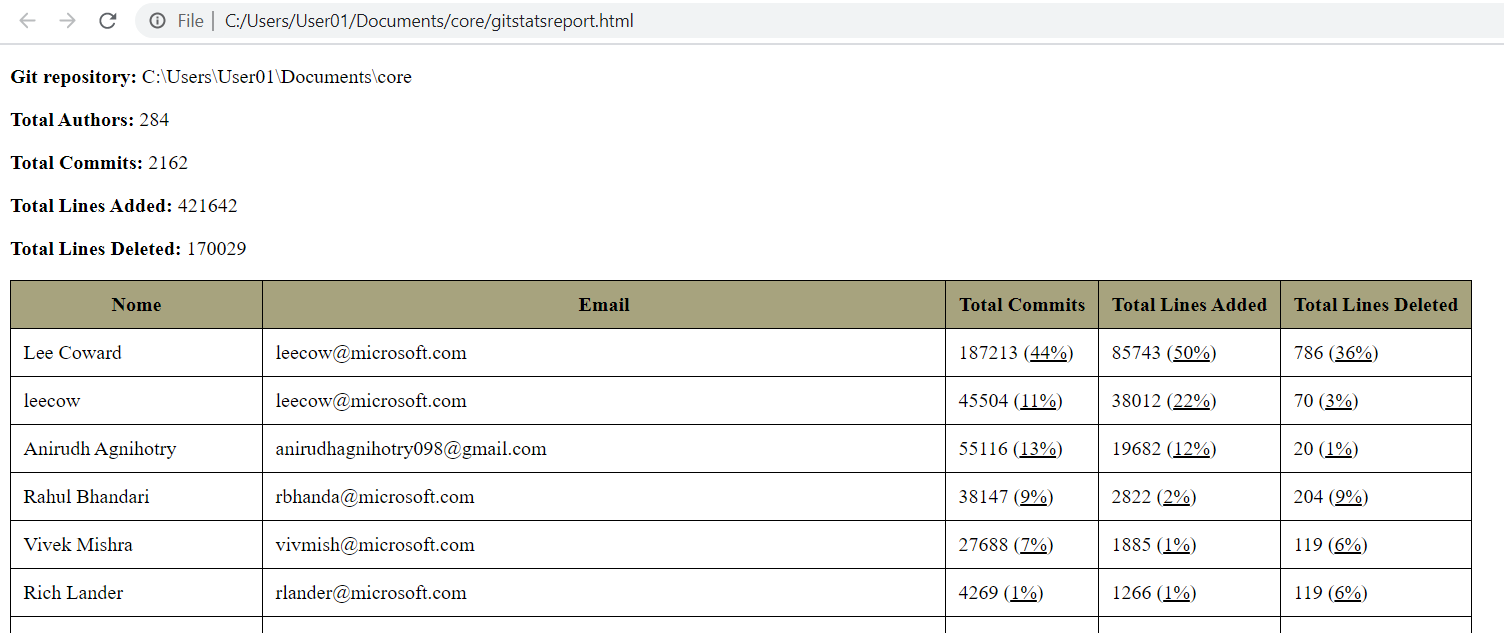
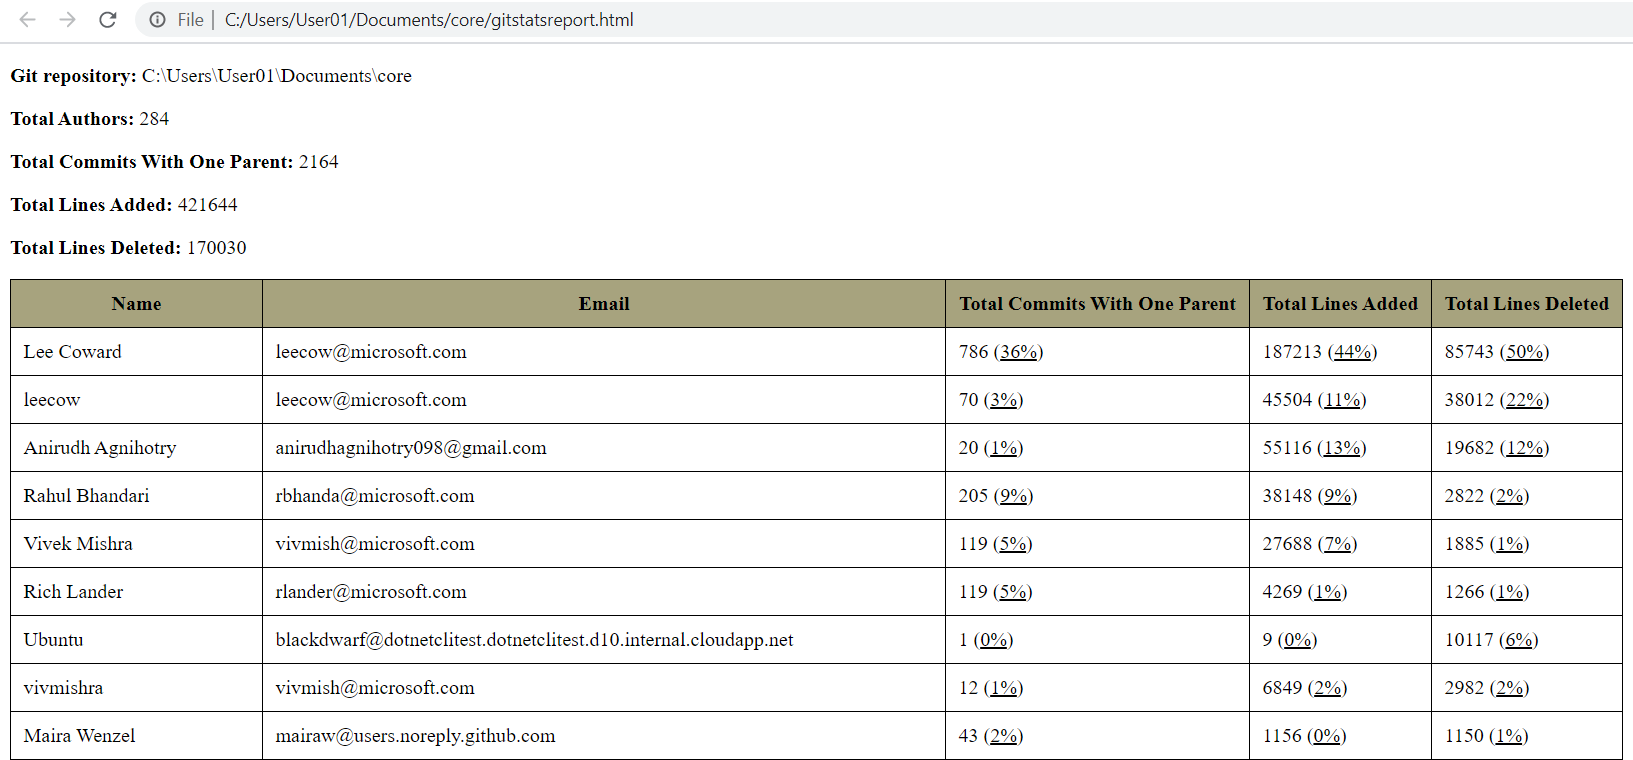
New documentation.

Changed region(s): [[0.0, 0.0, 1.0, 1.0], [0.9688, 0.9305, 1.0, 0.9605]]

diff --git a/README.md b/README.md
@@ -34,11 +34,11 @@ The results were truncated and they were originally stored in separated files.
         "Email": "immol@microsoft.com",
         "LinesAdded": 1247,
         "LinesDeleted": 137,
-        "TotalCommits": 29
+        "TotalCommitsWithOneParent": 29
       },
       "PercentageLinesAdded": 0,
       "PercentageLinesDeleted": 0,
-      "PercentageTotalCommits": 1,
+      "PercentageTotalCommitsWithOneParent": 1,
       "PonderatedPercentage": 0
     },
     {
@@ -47,11 +47,11 @@ The results were truncated and they were originally stored in separated files.
         "Email": "davidsb@microsoft.com",
         "LinesAdded": 1,
         "LinesDeleted": 0,
-        "TotalCommits": 1
+        "TotalCommitsWithOneParent": 1
       },
       "PercentageLinesAdded": 0,
       "PercentageLinesDeleted": 0,
-      "PercentageTotalCommits": 0,
+      "PercentageTotalCommitsWithOneParent": 0,
       "PonderatedPercentage": 0
     },
     {
@@ -60,17 +60,17 @@ The results were truncated and they were originally stored in separated files.
         "Email": "rlander@microsoft.com",
         "LinesAdded": 4269,
         "LinesDeleted": 1266,
-        "TotalCommits": 119
+        "TotalCommitsWithOneParent": 119
       },
       "PercentageLinesAdded": 1,
       "PercentageLinesDeleted": 1,
-      "PercentageTotalCommits": 6,
+      "PercentageTotalCommitsWithOneParent": 6,
       "PonderatedPercentage": 3
     }
     ],
   "TotalLinesAdded": 421642,
   "TotalLinesDeleted": 170029,
-  "TotalCommits": 2162,
+  "TotalCommitsWithOneParent": 2162,
   "GitRepositoryPath": "C:\\Users\\User01\\Documents\\core",
   "DigestDateUTC": "2021-01-30T15:17:15.7259911Z"
 }
